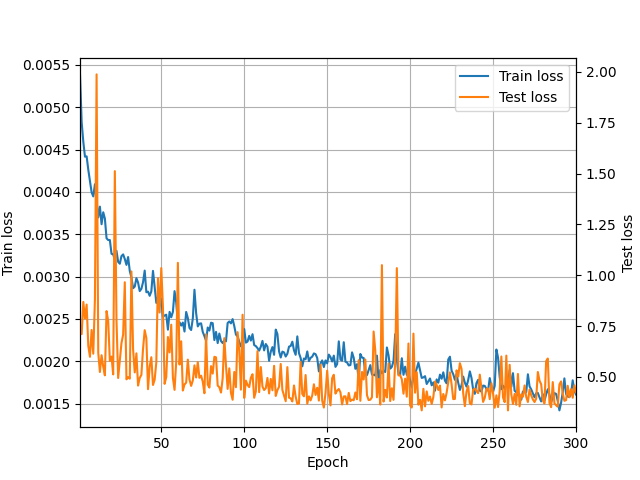
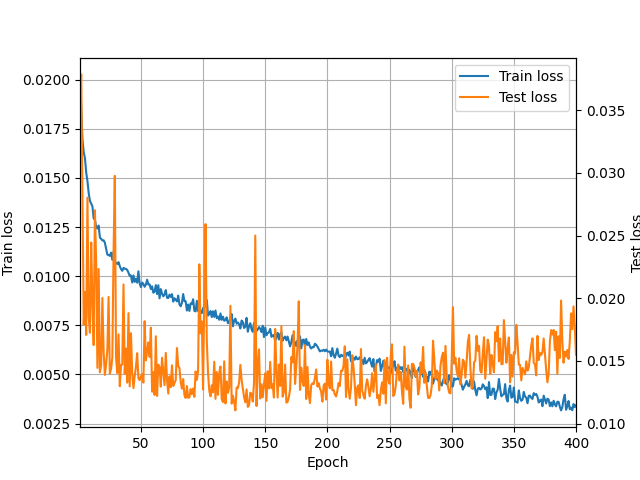
実験結果をネットワーク2つごとか4こいっぺんか迷い中

diff --git a/scripts/chapter/chapter4.tex b/scripts/chapter/chapter4.tex
@@ -1,26 +1,104 @@
 \chapter{実験結果と考察}
 
 \section{4種類のネットワークの精度}
+ネットワーク1，2，3，4の4つのネットワークについて判定精度と誤差のグラフを図\ref{fig_acc_cnn}から図\ref{fig_loss_bc_nb}に示す.
+\begin{figure}[htbp]
+  \begin{minipage}[b]{0.45\linewidth}
+    \centering
+    \includegraphics[keepaspectratio, scale=0.45]{./chapter4/acc_cnn.png}
+    \caption{CNNでの正答率}
+    \label{fig_acc_cnn}
+  \end{minipage}
+  \begin{minipage}[b]{0.45\linewidth}
+    \centering
+    \includegraphics[keepaspectratio, scale=0.45]{./chapter4/loss_cnn.png}
+    \caption{CNNでの誤差}
+    \label{fig_loss_cnn}
+  \end{minipage}
+\end{figure}
 
-% \subsection{CNN}
-% 浮動少数の重みを用いた一般的なCNNを用いた際のAccuracyとLossを図\ref{fig_cnn_acc}，図\ref{fig_cnn_loss}に示す．
-% \begin{figure}[]
-%     \begin{center}
-%       \includegraphics[scale = 0.5]{./chapter4/acc_cnn.png}
-%       \caption{CNNによるAccuracy}
-%       \label{fig_cnn_acc}
-%     \end{center}
-% \end{figure}
-% \begin{figure}[]
-%     \begin{center}
-%       \includegraphics[scale = 0.5]{./chapter4/loss_cnn.png}
-%       \caption{CNNによるLoss}
-%       \label{fig_cnn_loss}
-%     \end{center}
-% \end{figure}
+\begin{figure}[htbp]
+  \begin{minipage}[b]{0.45\linewidth}
+    \centering
+    \includegraphics[keepaspectratio, scale=0.45]{./chapter4/acc_bc.png}
+    \caption{BinaryConnectでの正答率}
+    \label{fig_acc_bc}
+  \end{minipage}
+  \begin{minipage}[b]{0.45\linewidth}
+    \centering
+    \includegraphics[keepaspectratio, scale=0.45]{./chapter4/loss_bc.png}
+    \caption{BinaryConnectでの誤差}
+    \label{fig_loss_bc}
+  \end{minipage}
+\end{figure}
 
-% \subsection{BinaryConnect}
-% 重みのみ2値化しBiasは通常のものを用いたネットワークを用いた際のAccuracyとLossを図に示す．
+\begin{figure}[htbp]
+  \begin{minipage}[b]{0.45\linewidth}
+    \centering
+    \includegraphics[keepaspectratio, scale=0.45]{./chapter4/acc_bwb.png}
+    \caption{2値化したバイアスを持つBinaryConnectでの正答率}
+    \label{fig_acc_bwb}
+  \end{minipage}
+  \begin{minipage}[b]{0.45\linewidth}
+    \centering
+    \includegraphics[keepaspectratio, scale=0.45]{./chapter4/loss_bwb.png}
+    \caption{2値化したバイアスを持つBinaryConnectでの誤差}
+    \label{fig_loss_bwb}
+  \end{minipage}
+\end{figure}
 
-% \subsection{Biasを含むBinaryConnect}
-% 重み，Bias両方を2値化したネットワークを用いた際のAccuracyとLossを図に示す．
+\begin{figure}[htbp]
+  \begin{minipage}[b]{0.45\linewidth}
+    \centering
+    \includegraphics[keepaspectratio, scale=0.45]{./chapter4/acc_bc_nb.png}
+    \caption{バイアスを消去したBinaryConnectでの正答率}
+    \label{fig_acc_bc_nb}
+  \end{minipage}
+  \begin{minipage}[b]{0.45\linewidth}
+    \centering
+    \includegraphics[keepaspectratio, scale=0.45]{./chapter4/loss_bc_nb.png}
+    \caption{バイアスを消去したBinaryConnectでの誤差}
+    \label{fig_loss_bc_nb}
+  \end{minipage}
+\end{figure}
+
+これらの結果より，正答率やその推移はどのネットワークも同様の傾向を示していることが分かる．CNNの誤差は250Epoch近傍から上昇傾向にあるが，3つのBinaryConnectでは200Epoch近傍まで減少傾向にあり，その後は維持をしている．このことからCNNでは250Epoch以降過学習状態にあるがBinaryConnectを用いることによってオーバーフィッティングを抑えられ高Epochでの学習にも対応できるようになっていると考えられる．
+
+CNNに比べ3つのBinaryConncetでは判定精度にばらつきがありLossの値も大きくなっていることが分かる．各ネットワークの最終10Epochの平均正答率をまとめると以下のようになった．
+\begin{itemize}
+  \item CNN：83.57\%
+  \item BinaryConnect：82.53\%
+  \item BinaryConnect(Binarize Bias)：82.30\%
+  \item BinaryConnect(No Bias)：82.50\%
+\end{itemize}
+
+この結果から分かる通り，BinaryConnectでは正答率にばらつきがあるが，正答率に大きな差はない．今回のネットワークの構造において，1178288個の重みを使用しており，32bitの浮動小数で表されるCNNでは重みだけで約4.7MBのメモリを消費する．しかしBinaryConnectを使用することで重みは約117KBまで削減することができる．ここまでの情報量を削減して同等の正答率を確保できることは，BinaryConnectが計算リソースの削減に有効であるといえる．また，バイアスを2値化，消去しても正答率への影響は少ない．バイアスは重みほど計算リソースを圧迫しないが，32bitの浮動小数を持つ．消去しても同等の性能を示すことはこの手法も計算コストの削減として有効であるといえる．
+
+\section{BinaryConnectの重みの推移}
+BinaryConnectの正答率はEpochごとのばらつきが大きくなっている．これは0付近で揺れている重みを強制的に2値化するためフィルタが大きく変化することによるものではないかと考えた．図\ref{fig_acc_bc}の実験結果で，378Epoch目の正答率は約84.92\%，379Epoch目の正答率は83.77\%，380Epoch目の正答率は74.14\%である．378Epochと379Epochでは正答率がほぼ同じだが，379Epochと380Epochでは約10\%低下している．そこで各Epochにおける層ごとの-1の個数の変化率を検証した．その結果を表\ref{table_parameter_transition}にまとめる．
+\begin{table}
+  \caption{Epochごとの重みの変化率}
+  \label{table_parameter_transition}
+  \centering
+  \begin{tabular}{ccc}
+    \hline
+    Layer & 378$\to$379Epoch(\%) & 379$\to$380Epoch(\%) \\
+    \hline \hline
+    $C_1$ & 0.833 & 2.439\\
+    $C_2$ & 0.476 & 0.395\\
+    $C_3$ & 1.244 & 0.256\\
+    $C_4$ & 0.061 & 0.492\\
+    $C_5$ & 0.030 & 0.070\\
+    $C_6$ & 0.344 & 0.257\\
+    $C_7$ & 0.226 & 0.002\\
+    $C_8$ & 0.094 & 0.058\\
+    $C_9$ & 0.013 & 0.117\\
+    $C_{10}$ & 0.099 & 0.092\\
+    全結合層 & 0 & 1.090\\
+    \hline
+  \end{tabular}
+\end{table}
+
+この結果をみると正答率が変わらないときに比べ，減少する時は入力層，出力層においての-1の変化率が大きくなっていることが分かる．隠れ層では両者に大きな差はないことから，重みの正答率への影響は入口や出口で顕著に現れると考えられる．重みのばらつきを抑え正答率を上げるためにはネットワークの入口，出口付近の重みをクリッピングしたり，計算リソースを犠牲にして重みのビット数を増やしたりなどの対策が考えられる．
+
+\section{各ネットワークにおける不正解の傾向}

diff --git a/scripts/chapter/chapter1.tex b/scripts/chapter/chapter1.tex
@@ -13,16 +13,16 @@
 \section{背景}
 
 \subsection{コーヒーの需要}
-コーヒーは世界中で様々な形で飲まれており，近年日本でもコーヒーの需要は増加傾向にある．図\ref{fig_syouhi}は日本国内における年間のコーヒー消費量の推移である．1996年以降コーヒー消費量は増加を続け2016年には470[kt]を超える消費量を見せている．特に嗜好品としてのコーヒーがブームを迎えており，スペシャルティコーヒーと呼ばれる品質を重視したコーヒーの需要が高まっている
-
-スペシャルティコーヒーとは「消費者(コーヒーを飲む人）の手に持つカップの中のコーヒーの液体の風味が素晴らしい美味しさであり，消費者が美味しいと評価して満足するコーヒーであること．」と定義づけられている．カップの中の風味が素晴らしい美味しさであるためには，コーヒーの豆（種子）からカップまでの総ての段階において一貫した体制・工程・品質管理が徹底していることが必須であるとされている．具体的には生産国における管理・処理が適切になされ，適切な輸送と保管により劣化のない状態で焙煎された高品質なコーヒー豆を用いて適切な抽出が行われたものである必要がある．
-\begin{figure}[]
+コーヒーは世界中で様々な形で飲まれており，近年日本でもコーヒーの需要は増加傾向にある．図\ref{fig_syouhi}は日本国内における年間のコーヒー消費量の推移である．1996年以降コーヒー消費量は増加を続け2016年には470[kt]を超える消費量を見せている．特に嗜好品としてのコーヒーがブームを迎えており，スペシャルティコーヒーと呼ばれる品質を重視したコーヒーの需要が高まっている.
+\begin{figure}[htbp]
   \begin{center}
     \includegraphics[scale = 0.5]{./chapter1/coffee_syouhi.png}
     \caption{Coffee consumption in Japan}
     \label{fig_syouhi}
   \end{center}
 \end{figure}
+
+スペシャルティコーヒーとは「消費者(コーヒーを飲む人）の手に持つカップの中のコーヒーの液体の風味が素晴らしい美味しさであり，消費者が美味しいと評価して満足するコーヒーであること．」と定義づけられている．カップの中の風味が素晴らしい美味しさであるためには，コーヒーの豆（種子）からカップまでの総ての段階において一貫した体制・工程・品質管理が徹底していることが必須であるとされている．具体的には生産国における管理・処理が適切になされ，適切な輸送と保管により劣化のない状態で焙煎された高品質なコーヒー豆を用いて適切な抽出が行われたものである必要がある．
 
 \subsection{欠点豆とハンドピック}
 近年のスペシャルティコーヒーのブームにより高品質なコーヒー豆が求められているが，コーヒー生豆において欠点豆と呼ばれるものが存在する．

diff --git a/scripts/chapter/chapter3.tex b/scripts/chapter/chapter3.tex
@@ -4,19 +4,20 @@
 \section{データセットの作成}
 \subsection{撮影環境}
 データセットを作成するためにFig.\ref{fig_camera}の環境を構築した.
-\begin{figure}[]
+\begin{figure}[htbp]
   \begin{center}
     \includegraphics[scale = 0.5]{./chapter3/device.png}
     \caption{撮影環境}
     \label{fig_camera}
   \end{center}
 \end{figure}
+
 画像ごとに明度が変わったり影ができてしまうと誤判定の原因となってしまうため，Webカメラに自作のライトボックスを取り付けた．なお，本実験で使用したコーヒー豆はコロンビアスプレモとブラジルサントスNo.2の生豆である．
 
 ここにコーヒー豆の画像画像
 
 \subsection{画像の前処理}
-取得画像には以下の前処理を施した．
+取得画像には以下の前処理を施し，画像ごとの写り方をできるだけ統一した．
 \begin{enumerate}
 \item ノイズ対策としてメディアンフィルタを用いたぼかし処理．
 \item 画像をグレースケール化し2値化をする．これによりコーヒー豆部分が黒く，背景が白い画像を生成する．
@@ -35,7 +36,7 @@
 
 \section{実験条件}
 本実験のネットワークの構造を図\ref{fig_nnst}に示す．
-\begin{figure}[]
+\begin{figure}[htbp]
   \begin{center}
     \includegraphics[scale = 0.08]{./chapter3/nn_struct.png}
     \caption{ネットワークの構造}
@@ -73,4 +74,11 @@
 \end{itemize}
 を切り替えながらオンラインでデータの拡張を行った．誤差関数にはクロスエントロピー誤差を，学習率の設定にはAdamを用いている．
 
-ネットワークの基本的な構造はこのままに，BinaryConnectのネットワークは重みのみ2値化したもの，重みとバイアスを2値化したもの，バイアスを消去したものを作成し，4種類のネットワークについて検証した．
+ネットワークや学習時のパラメータはこのままに，以下の4つのネットワークを作成した．
+\begin{itemize}
+  \item ネットワーク1：CNN
+  \item ネットワーク2：BinaryConnect
+  \item ネットワーク3：BinaryConnect + Binarize Bias
+  \item ネットワーク4：BinaryConnect + None Bias
+\end{itemize}
+これら4種類のネットワークについて正答率や誤差の変化，学習の傾向などを検証しCNNの代替となるかを考察した．
